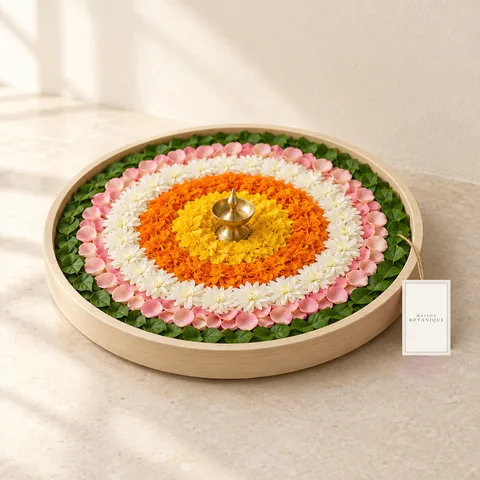
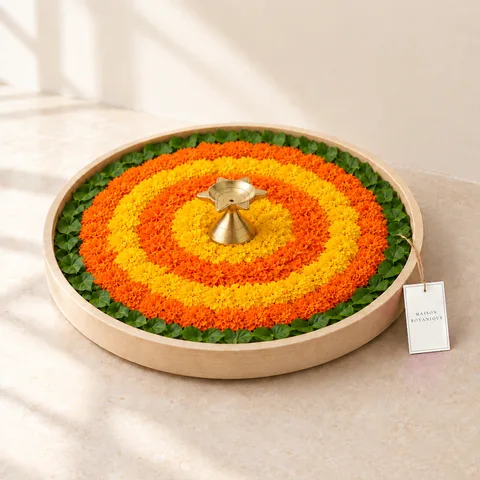
Rangoli tray: new marigold petal image, one 35 cm plate size, add Marigold Petal Rangoli Tray
Replaces the misleading tray image (text no longer says chrysanthemum/rose), drops the Grand size, and adds the petals-only variant as its own product (MB-SE-016).

Changed region(s): [[0.0938, 0.25, 0.9375, 0.75], [0.75, 0.6875, 0.7812, 0.7188]]

diff --git a/src/lib/seasonal.ts b/src/lib/seasonal.ts
@@ -20,7 +20,7 @@ export const DIWALI_GROUPS = [
   { id: 'door', en: 'For the door', ar: 'للباب', lineEn: 'Hang it over the doorway.', lineAr: 'علّقوه فوق مدخل البيت.',
     handles: ['marigold-toran', 'thoranam-door-arch', 'entrance-pair', 'the-marigold-welcome'] },
   { id: 'doorstep', en: 'For the doorstep', ar: 'للعتبة', lineEn: 'Light up the threshold.', lineAr: 'أضيئوا العتبة.',
-    handles: ['the-doorstep-set', 'flower-rangoli-tray', 'marigold-urli'] },
+    handles: ['the-doorstep-set', 'flower-rangoli-tray', 'marigold-petal-rangoli-tray', 'marigold-urli'] },
   { id: 'host', en: 'For the host', ar: 'للمضيف', lineEn: 'Arrive with something warm.', lineAr: 'احملوا معكم لمسة دافئة.',
     handles: ['marigold-haat-bouquet', 'brass-lota-posy', 'the-marigold-and-mithai-trunk', 'the-hosts-trunk'] },
 ] as const;
@@ -30,7 +30,7 @@ const USE = { door: ['Hangs on the door', 'يُعلَّق على الباب'], d
   arrive: ['Arrive with it', 'تصلون به'], gift: ['Gift to the host', 'هدية للمضيف'] } as const;
 export const DIWALI_USE: Record<string, readonly [string, string]> = {
   'marigold-toran': USE.door, 'thoranam-door-arch': USE.door, 'entrance-pair': USE.door, 'the-marigold-welcome': USE.display,
-  'the-doorstep-set': USE.step, 'flower-rangoli-tray': USE.step, 'marigold-urli': USE.step,
+  'the-doorstep-set': USE.step, 'flower-rangoli-tray': USE.step, 'marigold-petal-rangoli-tray': USE.step, 'marigold-urli': USE.step,
   'marigold-haat-bouquet': USE.arrive, 'brass-lota-posy': USE.arrive, 'the-marigold-and-mithai-trunk': USE.gift, 'the-hosts-trunk': USE.gift,
 };
 /** Halloween pieces built in real pumpkins (owner confirmed 29 Oct 2026). The other two are ceramic, so they get no compostable note. */

diff --git a/scripts/build_diwali_range.py b/scripts/build_diwali_range.py
@@ -26,7 +26,8 @@ PRICES = {
     'marigold-urli': {'Signature': 179},
     'thoranam-door-arch': {'Signature': 399},
     'entrance-pair': {'Signature': 289, 'Grand': 499},
-    'flower-rangoli-tray': {'Signature': 279, 'Grand': 419},
+    'flower-rangoli-tray': {'Signature': 279},
+    'marigold-petal-rangoli-tray': {'Signature': 279},
 }
 # One place for what customers ask first: how big is it. Feeds the size lines on the card, the product page (size_details),
 # the Shopify description and variant titles, and dimensions.json for the PDFs. (en, ar) per size, in size order.
@@ -42,12 +43,13 @@ DIMENSIONS = {
     'marigold-urli': [('urli about 10 in', 'أورلي بقطر 10 إنش تقريباً')],
     'thoranam-door-arch': [('single door, about 3 ft wide', 'لباب واحد، بعرض 3 أقدام تقريباً')],
     'entrance-pair': [('two garlands, about 4 ft each', 'إكليلان، 4 أقدام تقريباً لكل منهما'), ('two garlands, about 8 ft each', 'إكليلان، 8 أقدام تقريباً لكل منهما')],
-    'flower-rangoli-tray': [('18 in tray', 'صينية 18 إنش'), ('24 in tray', 'صينية 24 إنش')],
+    'flower-rangoli-tray': [('35 cm (about 14 in) plate', 'صحن 35 سم (حوالي 14 إنش)')],
+    'marigold-petal-rangoli-tray': [('35 cm (about 14 in) plate', 'صحن 35 سم (حوالي 14 إنش)')],
 }
 SIZE_AR = {'Signature': 'سيغنتشر', 'Grand': 'غراند', 'Luxe': 'لوكس'}
 IMG = {'the-doorstep-set': 'b1', 'the-marigold-welcome': 'b2', 'the-marigold-and-mithai-trunk': 'b3', 'the-hosts-trunk': 'b4',
        'marigold-haat-bouquet': 'f1', 'brass-lota-posy': 'f2', 'marigold-urli': 'f3', 'thoranam-door-arch': 'f4',
-       'entrance-pair': 'f5', 'flower-rangoli-tray': 'f6'}
+       'entrance-pair': 'f5', 'flower-rangoli-tray': 'f6', 'marigold-petal-rangoli-tray': 'f6'}
 
 # id, no, title, title_ar, line, line_ar, contents, contents_ar, size detail, size detail ar, alt, seo title, seo desc, occasions, flags
 P = [
@@ -117,9 +119,16 @@ P = [
  dict(id='flower-rangoli-tray', no=347, sku='MB-SE-015', room='gifts', format='gift', stems=None,
   name='Flower Rangoli Tray (Pookalam) — Fresh Petal Rangoli on a Round Tray', nameAr='صينية رانغولي الزهور (بوكالام)',
   line='A fresh petal rangoli in rings on a round tray', lineAr='رانغولي بتلات طازجة على شكل حلقات في صينية مستديرة',
-  contents=['18 in round wooden tray, petal rangoli in rings (marigold, white chrysanthemum, rose, leaf), a small brass diya at the centre', 'Arrives pre-laid in a lidded box'],
-  contentsAr=['صينية خشبية مستديرة 18 إنش برانغولي من البتلات في حلقات (قطيفة وأقحوان أبيض وورد وأوراق) وديّة نحاسية صغيرة في الوسط', 'تصل جاهزة داخل صندوق بغطاء'],
-  alt='Round wooden tray with concentric rings of marigold, white chrysanthemum and rose petals around a small brass diya', seoT='Flower Rangoli Tray | Pookalam Dubai', seoD='A fresh petal rangoli in rings on a round tray, arrives ready to place. Order for Diwali in Dubai from Maison Botanique.',
+  contents=['35 cm (about 14 in) round wooden plate, petal rangoli in rings (orange and yellow marigold petals, green leaf edge), a small brass diya at the centre', 'Arrives pre-laid in a lidded box'],
+  contentsAr=['صحن خشبي مستدير 35 سم (حوالي 14 إنش) برانغولي من البتلات في حلقات (بتلات قطيفة برتقالية وصفراء وحافة من الأوراق الخضراء) وديّة نحاسية صغيرة في الوسط', 'تصل جاهزة داخل صندوق بغطاء'],
+  alt='Round wooden tray with concentric rings of orange and yellow marigold petals and a green leaf edge around a small brass diya', seoT='Flower Rangoli Tray | Pookalam Dubai', seoD='A fresh petal rangoli in rings on a round tray, arrives ready to place. Order for Diwali in Dubai from Maison Botanique.',
+  occ=['diwali'], tags=[], flags='own_cost_estimated;sourcing_unverified;sample_required'),
+ dict(id='marigold-petal-rangoli-tray', no=348, sku='MB-SE-016', room='gifts', format='gift', stems=None,
+  name='Marigold Petal Rangoli Tray — Fresh Marigold Petal Rangoli', nameAr='صينية رانغولي بتلات القطيفة',
+  line='A fresh petal rangoli in rings on a round tray', lineAr='رانغولي بتلات طازجة على شكل حلقات في صينية مستديرة',
+  contents=['35 cm (about 14 in) round wooden plate, petal rangoli in rings (orange and yellow marigold petals, edge to edge), a small brass diya at the centre', 'Arrives pre-laid in a lidded box'],
+  contentsAr=['صحن خشبي مستدير 35 سم (حوالي 14 إنش) برانغولي من البتلات في حلقات (بتلات قطيفة برتقالية وصفراء حتى الحافة) وديّة نحاسية صغيرة في الوسط', 'تصل جاهزة داخل صندوق بغطاء'],
+  alt='Round wooden tray with concentric rings of orange and yellow marigold petals edge to edge around a small brass diya', seoT='Marigold Petal Rangoli Tray Dubai', seoD='A fresh petal rangoli in rings on a round tray, arrives ready to place. Order for Diwali in Dubai from Maison Botanique.',
   occ=['diwali'], tags=[], flags='own_cost_estimated;sourcing_unverified;sample_required'),
 ]
 FOR_DAYS = {'the-doorstep-set', 'the-marigold-welcome', 'the-marigold-and-mithai-trunk', 'the-hosts-trunk'}
